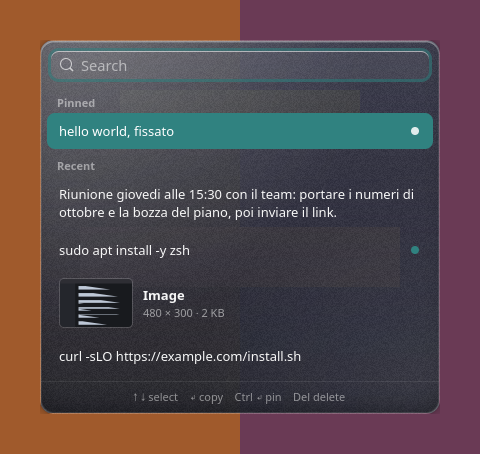
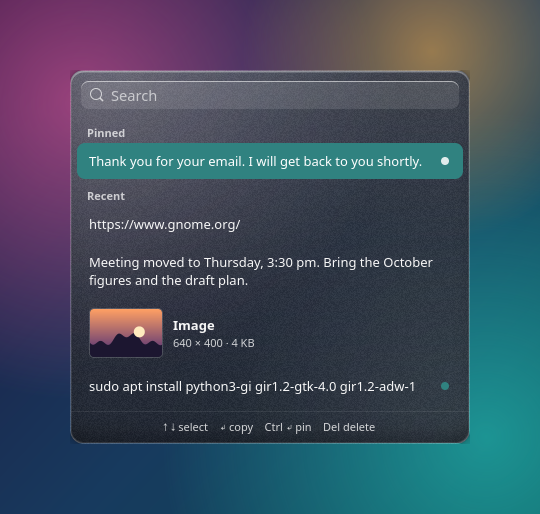
Refresh screenshots and fix the contrast of group descriptions
New screenshots with sample entries over a sample wallpaper, rendered from the current
interface. The introductory text under the settings headings used a dimmed colour that the
contrast change did not reach.

diff --git a/extension/main.py b/extension/main.py
@@ -51,14 +51,14 @@ window.glass.glass-dark .glass-panel {
 }
 
 window.glass row .subtitle,
-window.glass preferencesgroup .description,
+window.glass .dimmed,
 window.glass .dim-label {
     opacity: 1;
     color: rgba(0, 0, 0, 0.72);
 }
 
 window.glass.glass-dark row .subtitle,
-window.glass.glass-dark preferencesgroup .description,
+window.glass.glass-dark .dimmed,
 window.glass.glass-dark .dim-label {
     color: rgba(255, 255, 255, 0.78);
 }

diff --git a/README.md b/README.md
@@ -10,7 +10,7 @@ glass-style window that follows your GNOME colour scheme and accent colour.
   <img src="docs/screenshots/light.png" alt="Clipstory, light" width="380">
 </p>
 
-<sub>The screenshots were rendered over a coloured test background so that the transparency is visible.</sub>
+<sub>The screenshots show sample entries over a sample wallpaper, so that the transparency is visible.</sub>
 
 ## Features
 
